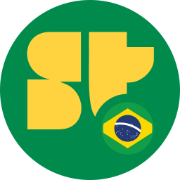
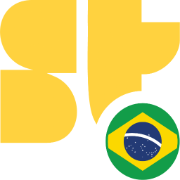
fix: close final review findings
Judge project card linked GitHub/LinkedIn to the internal profile
instead of the member's URLs. 36 border-white-10 classes generated no
CSS (no white token in the LP theme) — replaced with border-ink/10 on
light surfaces and border-surface/15 on dark; the judge rating panel
moves to the cream inset its text tokens were designed for, and the
no-cover project name fallback was ink-on-ink. The edition summary
strip hardcoded 'US$ 3.000 e mais' — now derived from prize_summary
(prizePoolLabel, tested). Dead dark-theme edition-card/edition-gallery
deleted. New STBR favicon set. CLAUDE.md/HANDOFF updated to match.

diff --git a/src/components/judge/project-card.tsx b/src/components/judge/project-card.tsx
@@ -68,7 +68,7 @@ export function JudgeProjectCard({
             className={`inline-flex shrink-0 items-center rounded-lg border px-3 py-1.5 font-mono text-lg font-semibold tabular-nums ${
               graded
                 ? "border-yellow-strong/60 bg-yellow/40 text-green-dark"
-                : "border-white-10 text-muted"
+                : "border-ink/10 text-muted"
             }`}
           >
             {graded ? `Nota ${rating.grade}` : "-"}
@@ -81,7 +81,7 @@ export function JudgeProjectCard({
             alt=""
             width={640}
             height={320}
-            className="mt-5 h-48 w-full rounded-2xl border border-white-10 object-cover"
+            className="mt-5 h-48 w-full rounded-2xl border border-ink/10 object-cover"
           />
         )}
 
@@ -123,10 +123,14 @@ export function JudgeProjectCard({
                           </MemberContactLink>
                         )}
                         {member.githubUrl && (
-                          <MemberContactLink href={`/u/${member.id}`}>GitHub</MemberContactLink>
+                          <MemberContactLink href={member.githubUrl} external>
+                            GitHub
+                          </MemberContactLink>
                         )}
                         {member.linkedinUrl && (
-                          <MemberContactLink href={`/u/${member.id}`}>LinkedIn</MemberContactLink>
+                          <MemberContactLink href={member.linkedinUrl} external>
+                            LinkedIn
+                          </MemberContactLink>
                         )}
                         {member.telegramHandle && (
                           <MemberContactLink
@@ -153,7 +157,7 @@ export function JudgeProjectCard({
                 href={link.href}
                 target="_blank"
                 rel="noreferrer"
-                className="rounded-full border border-white-10 px-3.5 py-1.5 text-sm font-semibold text-muted transition-colors hover:border-emerald/50 hover:text-ink"
+                className="rounded-full border border-ink/10 px-3.5 py-1.5 text-sm font-semibold text-muted transition-colors hover:border-emerald/50 hover:text-ink"
               >
                 {link.label}
               </a>
@@ -162,7 +166,7 @@ export function JudgeProjectCard({
         )}
       </div>
 
-      <div className="border-t border-white-10 p-6 sm:p-7">
+      <div className="border-t border-ink/10 p-6 sm:p-7">
         <RatingForm
           hackathonId={hackathonId}
           submissionId={project.submissionId}

diff --git a/src/app/(public)/u/[id]/page.tsx b/src/app/(public)/u/[id]/page.tsx
@@ -97,7 +97,7 @@ export default async function BuilderProfilePage({ params }: Props) {
                       href={s.href}
                       target="_blank"
                       rel="noreferrer"
-                      className="rounded-full border border-white-10 px-3 py-1 text-sm font-semibold text-muted transition-colors hover:border-emerald/50 hover:text-ink"
+                      className="rounded-full border border-ink/10 px-3 py-1 text-sm font-semibold text-muted transition-colors hover:border-emerald/50 hover:text-ink"
                     >
                       {s.label}
                     </a>
@@ -133,7 +133,7 @@ export default async function BuilderProfilePage({ params }: Props) {
                   <li key={p.id}>
                     <Link
                       href={`/h/${p.hackathon_slug}/projetos/${p.id}`}
-                      className="group flex h-full flex-col overflow-hidden rounded-2xl border border-white-10 bg-surface-raised shadow-[0_8px_32px_rgba(0,140,76,0.08)] transition-[transform,border-color,box-shadow] duration-300 hover:-translate-y-1 hover:border-emerald/50 hover:ring-2 hover:ring-yellow focus-visible:outline-none focus-visible:ring-2 focus-visible:ring-emerald focus-visible:ring-offset-2 focus-visible:ring-offset-surface"
+                      className="group flex h-full flex-col overflow-hidden rounded-2xl border border-ink/10 bg-surface-raised shadow-[0_8px_32px_rgba(0,140,76,0.08)] transition-[transform,border-color,box-shadow] duration-300 hover:-translate-y-1 hover:border-emerald/50 hover:ring-2 hover:ring-yellow focus-visible:outline-none focus-visible:ring-2 focus-visible:ring-emerald focus-visible:ring-offset-2 focus-visible:ring-offset-surface"
                     >
                       <div className="relative h-40 overflow-hidden bg-green-dark">
                         {imageUrl ? (
@@ -145,7 +145,7 @@ export default async function BuilderProfilePage({ params }: Props) {
                             sizes="(max-width: 640px) 100vw, 50vw"
                           />
                         ) : (
-                          <div className="flex h-full items-center justify-center px-6 font-heading text-lg font-bold text-ink">
+                          <div className="flex h-full items-center justify-center px-6 font-heading text-lg font-bold text-surface">
                             {p.project_name}
                           </div>
                         )}

diff --git a/src/app/(public)/h/[slug]/projetos/[submissionId]/page.tsx b/src/app/(public)/h/[slug]/projetos/[submissionId]/page.tsx
@@ -113,7 +113,7 @@ export default async function ProjectDetailPage({ params }: Props) {
         </header>
 
         {imageUrl && (
-          <div className="relative mt-8 h-72 overflow-hidden rounded-2xl border border-white-10 bg-green-dark sm:h-96">
+          <div className="relative mt-8 h-72 overflow-hidden rounded-2xl border border-surface/15 bg-green-dark sm:h-96">
             <Image
               src={imageUrl}
               alt={`Imagem do projeto ${submission.project_name ?? ""}`}
@@ -149,7 +149,7 @@ export default async function ProjectDetailPage({ params }: Props) {
                 <li key={m.user_id}>
                   <Link
                     href={`/u/${m.user_id}`}
-                    className="flex items-center gap-3 rounded-2xl border border-white-10 bg-surface-raised p-4 transition-colors hover:border-emerald/50 focus-visible:outline-none focus-visible:ring-2 focus-visible:ring-emerald focus-visible:ring-offset-2 focus-visible:ring-offset-surface"
+                    className="flex items-center gap-3 rounded-2xl border border-ink/10 bg-surface-raised p-4 transition-colors hover:border-emerald/50 focus-visible:outline-none focus-visible:ring-2 focus-visible:ring-emerald focus-visible:ring-offset-2 focus-visible:ring-offset-surface"
                   >
                     <Avatar src={m.avatar_url} name={m.full_name} size="md" />
                     <div className="min-w-0">
@@ -175,7 +175,7 @@ export default async function ProjectDetailPage({ params }: Props) {
                   href={l.href}
                   target="_blank"
                   rel="noreferrer"
-                  className="rounded-full border border-white-10 px-4 py-1.5 text-sm font-semibold text-muted transition-colors hover:border-emerald/50 hover:text-ink"
+                  className="rounded-full border border-ink/10 px-4 py-1.5 text-sm font-semibold text-muted transition-colors hover:border-emerald/50 hover:text-ink"
                 >
                   {l.label}
                 </a>

diff --git a/src/components/admin/finalist-picker.tsx b/src/components/admin/finalist-picker.tsx
@@ -88,7 +88,7 @@ export function FinalistPicker({
       {error && <p className="text-sm font-semibold text-red-400">{error}</p>}
       {notice && <p className="text-sm font-semibold text-emerald">{notice}</p>}
 
-      <div className="flex flex-wrap items-center justify-between gap-3 rounded-xl border border-white-10 bg-surface-raised p-5">
+      <div className="flex flex-wrap items-center justify-between gap-3 rounded-xl border border-ink/10 bg-surface-raised p-5">
         <p className="font-mono text-sm tabular-nums text-muted">
           {marked.length} de {candidates.length} marcado(s) · {pendingNotify} por notificar.
         </p>
@@ -109,7 +109,7 @@ export function FinalistPicker({
             <li
               key={c.submissionId}
               className={`rounded-xl border bg-surface-raised p-5 transition-colors ${
-                on ? "border-yellow/40 bg-yellow/5" : "border-white-10"
+                on ? "border-yellow/40 bg-yellow/5" : "border-ink/10"
               }`}
             >
               <label className="flex flex-wrap items-center justify-between gap-3">
@@ -152,7 +152,7 @@ export function FinalistPicker({
                       disabled={pending}
                       placeholder="—"
                       onChange={(e) => updatePlacement(c, e.target.value)}
-                      className="h-9 w-14 rounded-lg border border-white-10 bg-surface-deep px-2 text-center font-mono text-base font-semibold tabular-nums text-ink outline-none transition-colors focus:border-emerald"
+                      className="h-9 w-14 rounded-lg border border-ink/10 bg-surface-deep px-2 text-center font-mono text-base font-semibold tabular-nums text-ink outline-none transition-colors focus:border-emerald"
                     />
                     <span className="font-mono text-[10px] font-semibold uppercase tracking-widest text-muted">
                       colocação

diff --git a/src/app/(public)/h/[slug]/projetos/page.tsx b/src/app/(public)/h/[slug]/projetos/page.tsx
@@ -136,7 +136,7 @@ export default async function ProjectsGalleryPage({
                 <li key={p.id}>
                   <Link
                     href={`/h/${slug}/projetos/${p.id}`}
-                    className="group flex h-full flex-col overflow-hidden rounded-2xl border border-white-10 bg-surface-raised shadow-[0_8px_32px_rgba(0,140,76,0.08)] transition-[transform,border-color,box-shadow] duration-300 hover:-translate-y-1 hover:border-emerald/50 hover:ring-2 hover:ring-yellow focus-visible:outline-none focus-visible:ring-2 focus-visible:ring-emerald focus-visible:ring-offset-2 focus-visible:ring-offset-surface"
+                    className="group flex h-full flex-col overflow-hidden rounded-2xl border border-ink/10 bg-surface-raised shadow-[0_8px_32px_rgba(0,140,76,0.08)] transition-[transform,border-color,box-shadow] duration-300 hover:-translate-y-1 hover:border-emerald/50 hover:ring-2 hover:ring-yellow focus-visible:outline-none focus-visible:ring-2 focus-visible:ring-emerald focus-visible:ring-offset-2 focus-visible:ring-offset-surface"
                   >
                     <div className="relative h-44 overflow-hidden bg-green-dark">
                       {placement !== undefined && (
@@ -153,7 +153,7 @@ export default async function ProjectsGalleryPage({
                           sizes="(max-width: 640px) 100vw, (max-width: 1024px) 50vw, 33vw"
                         />
                       ) : (
-                        <div className="flex h-full items-center justify-center px-6 font-heading text-xl font-bold text-ink">
+                        <div className="flex h-full items-center justify-center px-6 font-heading text-xl font-bold text-surface">
                           {p.project_name}
                         </div>
                       )}

diff --git a/src/components/judge/rating-form.tsx b/src/components/judge/rating-form.tsx
@@ -116,7 +116,7 @@ export function RatingForm({
   }
 
   return (
-    <div className="rounded-xl border border-white-10 bg-green-dark p-5">
+    <div className="rounded-xl border border-ink/10 bg-surface-deep p-5">
       <div className="flex items-baseline justify-between">
         <label
           htmlFor={`grade-${submissionId}`}
@@ -175,7 +175,7 @@ export function RatingForm({
           setSaved(false);
           scheduleAutosave();
         }}
-        className="mt-1.5 w-full rounded-xl border border-white-10 bg-surface-deep px-4 py-3 text-sm leading-relaxed outline-none transition-colors placeholder:text-muted/60 focus:border-emerald focus-visible:ring-2 focus-visible:ring-emerald/30"
+        className="mt-1.5 w-full rounded-xl border border-ink/10 bg-surface-deep px-4 py-3 text-sm leading-relaxed outline-none transition-colors placeholder:text-muted/60 focus:border-emerald focus-visible:ring-2 focus-visible:ring-emerald/30"
       />
 
       <div className="mt-4 flex flex-wrap items-center gap-3">
@@ -192,7 +192,7 @@ export function RatingForm({
             type="button"
             onClick={clear}
             disabled={pending}
-            className="min-h-11 rounded-full border border-white-10 px-4 text-xs font-semibold text-muted transition-colors hover:border-emerald/50 hover:text-ink disabled:opacity-50"
+            className="min-h-11 rounded-full border border-ink/10 px-4 text-xs font-semibold text-muted transition-colors hover:border-emerald/50 hover:text-ink disabled:opacity-50"
           >
             Limpar
           </button>

diff --git a/src/components/admin/role-manager.tsx b/src/components/admin/role-manager.tsx
@@ -38,18 +38,18 @@ export function RoleManager({
           type="email"
           required
           placeholder="e-mail"
-          className="min-h-11 rounded-full border border-white-10 bg-surface-deep px-4 py-2 text-ink outline-none transition-colors placeholder:text-muted/60 focus:border-emerald"
+          className="min-h-11 rounded-full border border-ink/10 bg-surface-deep px-4 py-2 text-ink outline-none transition-colors placeholder:text-muted/60 focus:border-emerald"
         />
         <select
           name="role"
-          className="min-h-11 rounded-full border border-white-10 bg-surface-deep px-4 py-2 text-ink outline-none transition-colors focus:border-emerald"
+          className="min-h-11 rounded-full border border-ink/10 bg-surface-deep px-4 py-2 text-ink outline-none transition-colors focus:border-emerald"
         >
           <option value="admin">Admin</option>
           <option value="judge">Jurado</option>
         </select>
         <select
           name="hackathon_id"
-          className="min-h-11 rounded-full border border-white-10 bg-surface-deep px-4 py-2 text-ink outline-none transition-colors focus:border-emerald"
+          className="min-h-11 rounded-full border border-ink/10 bg-surface-deep px-4 py-2 text-ink outline-none transition-colors focus:border-emerald"
         >
           <option value="">Selecionar hackathon (jurado)</option>
           {hackathons.map((h) => (

diff --git a/src/app/(app)/admin/h/[slug]/page.tsx b/src/app/(app)/admin/h/[slug]/page.tsx
@@ -25,7 +25,7 @@ function FlagChip({ on }: { on: boolean }) {
   return (
     <span
       className={`inline-flex items-center rounded border px-1.5 py-0.5 font-mono text-[11px] font-semibold ${
-        on ? "border-emerald/30 bg-emerald/10 text-emerald" : "border-white-10 text-muted"
+        on ? "border-emerald/30 bg-emerald/10 text-emerald" : "border-ink/10 text-muted"
       }`}
     >
       {on ? "Sim" : "Não"}
@@ -41,7 +41,7 @@ function TeamStatusChip({ status }: { status: string | null }) {
       className={`inline-flex items-center rounded border px-2 py-0.5 font-mono text-[11px] font-semibold ${
         submitted
           ? "border-emerald/30 bg-emerald/10 text-emerald"
-          : "border-white-10 text-muted"
+          : "border-ink/10 text-muted"
       }`}
     >
       {label}
@@ -135,7 +135,7 @@ export default async function AdminEditionPage({
                 alt=""
                 width={120}
                 height={120}
-                className="h-28 w-28 rounded-2xl border border-white-10 object-cover"
+                className="h-28 w-28 rounded-2xl border border-ink/10 object-cover"
               />
             )}
             <CoverUpload hackathonId={hackathon.id} slug={hackathon.slug} />

diff --git a/src/components/admin/content-row.tsx b/src/components/admin/content-row.tsx
@@ -116,7 +116,7 @@ export function ContentRow({
   }
 
   return (
-    <li className="rounded-xl border border-white-10 bg-surface-raised p-5">
+    <li className="rounded-xl border border-ink/10 bg-surface-raised p-5">
       <div className="flex flex-wrap items-start justify-between gap-3">
         <div className="min-w-0">
           <p className="font-mono text-[11px] font-semibold uppercase tracking-widest text-muted">
@@ -171,7 +171,7 @@ export function ContentRow({
       </div>
 
       {editing && (
-        <div className="mt-4 rounded-xl border border-white-10 bg-surface-deep p-5">
+        <div className="mt-4 rounded-xl border border-ink/10 bg-surface-deep p-5">
           <ContentFieldsForm draft={draft} onChange={setDraft} idPrefix={item.id} />
           <div className="mt-4 flex items-center gap-3">
             <Button
@@ -237,7 +237,7 @@ export function ContentRow({
         </Button>
       </div>
 
-      <div className="mt-4 flex flex-wrap items-center gap-3 border-t border-white-10 pt-4">
+      <div className="mt-4 flex flex-wrap items-center gap-3 border-t border-ink/10 pt-4">
         <input
           ref={fileRef}
           type="file"

diff --git a/src/app/(public)/h/[slug]/page.tsx b/src/app/(public)/h/[slug]/page.tsx
@@ -6,6 +6,7 @@ import {
   isRegistrationOpen,
   isFinalistsVisible,
   phaseBoundaries,
+  prizePoolLabel,
 } from "@/lib/hackathon";
 import { getRegistration, isRegistrationComplete } from "@/lib/registration";
 import { resolveAuthenticatedUserState } from "@/lib/user-state";
@@ -297,10 +298,14 @@ export default async function EditionPage({ params }: { params: Promise<{ slug: 
                 {hackathon.location_city ?? "Online"}
               </dd>
             </div>
-            <div>
-              <dt className="text-xs font-bold uppercase tracking-widest text-emerald">Prêmios</dt>
-              <dd className="mt-1 font-heading text-lg font-bold text-emerald">US$ 3.000 e mais</dd>
-            </div>
+            {prizePoolLabel(hackathon.prize_summary) && (
+              <div>
+                <dt className="text-xs font-bold uppercase tracking-widest text-emerald">Prêmios</dt>
+                <dd className="mt-1 font-heading text-lg font-bold text-emerald">
+                  {prizePoolLabel(hackathon.prize_summary)}
+                </dd>
+              </div>
+            )}
           </dl>
         </div>
       </section>

diff --git a/src/components/judge/project-list.tsx b/src/components/judge/project-list.tsx
@@ -62,7 +62,7 @@ export function JudgeProjectList({
     <div className="space-y-6">
       <div className="flex flex-wrap items-center justify-between gap-3">
         <div
-          className="inline-flex flex-wrap rounded-full border border-white-10 bg-surface-deep p-1"
+          className="inline-flex flex-wrap rounded-full border border-ink/10 bg-surface-deep p-1"
           role="group"
           aria-label="Filtrar projetos"
         >
@@ -85,7 +85,7 @@ export function JudgeProjectList({
         <select
           value={sort}
           onChange={(e) => setSort(e.target.value as SortKey)}
-          className="min-h-11 rounded-full border border-white-10 bg-surface-deep px-4 text-sm font-semibold text-muted outline-none transition-colors hover:border-emerald/50 focus:border-emerald"
+          className="min-h-11 rounded-full border border-ink/10 bg-surface-deep px-4 text-sm font-semibold text-muted outline-none transition-colors hover:border-emerald/50 focus:border-emerald"
         >
           {SORTS.map(({ key, label }) => (
             <option key={key} value={key}>

diff --git a/src/lib/__tests__/hackathon.test.ts b/src/lib/__tests__/hackathon.test.ts
@@ -7,6 +7,7 @@ import {
   editionStage,
   phaseBoundaries,
   phaseState,
+  prizePoolLabel,
 } from "../hackathon";
 import type { Hackathon } from "@/types/db";
 
@@ -168,5 +169,25 @@ describe("phase one split", () => {
       development_starts_at: null,
     } as Hackathon);
     expect(legacy.fase1.endsAt).toBe(new Date("2026-09-08T02:59:00Z").getTime());
+  });
+});
+
+describe("prizePoolLabel", () => {
+  it("sums the US$ amounts across the itemized summary", () => {
+    expect(
+      prizePoolLabel(
+        "1º Lugar - US$1500 + Kit · 2º Lugar - US$900 · 3º Lugar - US$450 · Menção Honrosa - US$150",
+      ),
+    ).toBe("US$ 3.000 em prêmios");
+  });
+
+  it("handles pt-BR thousand separators", () => {
+    expect(prizePoolLabel("1º Lugar - US$ 1.500")).toBe("US$ 1.500 em prêmios");
+  });
+
+  it("returns null when nothing is parseable", () => {
+    expect(prizePoolLabel(null)).toBeNull();
+    expect(prizePoolLabel("")).toBeNull();
+    expect(prizePoolLabel("Prêmios surpresa")).toBeNull();
   });
 });
